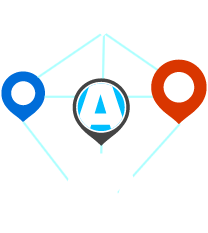
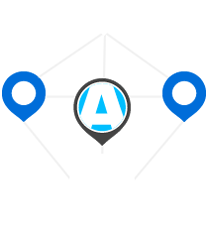
cambios css

diff --git a/src/avisapp/paginasBundle/Resources/public/css/color-1.css b/src/avisapp/paginasBundle/Resources/public/css/color-1.css
@@ -18,7 +18,7 @@
 .bgColor{
 	/* background: rgba(222,33,104,.9); */
 	/* background: rgba(151,156,162,.9); */
-	background: rgba(0, 0, 0, 0.8);
+	background: rgba(0, 0, 0, 0.3);
 	padding:110px 0;	
 }
 
